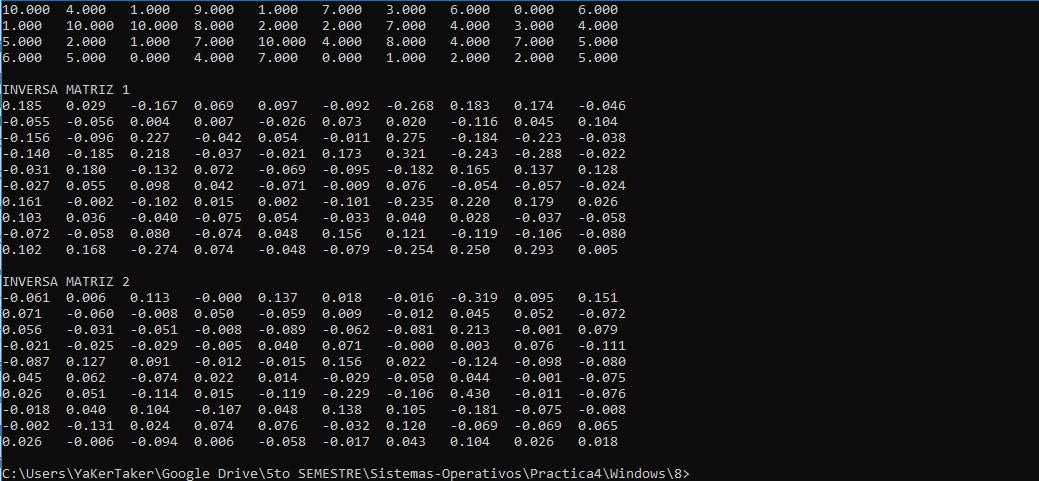
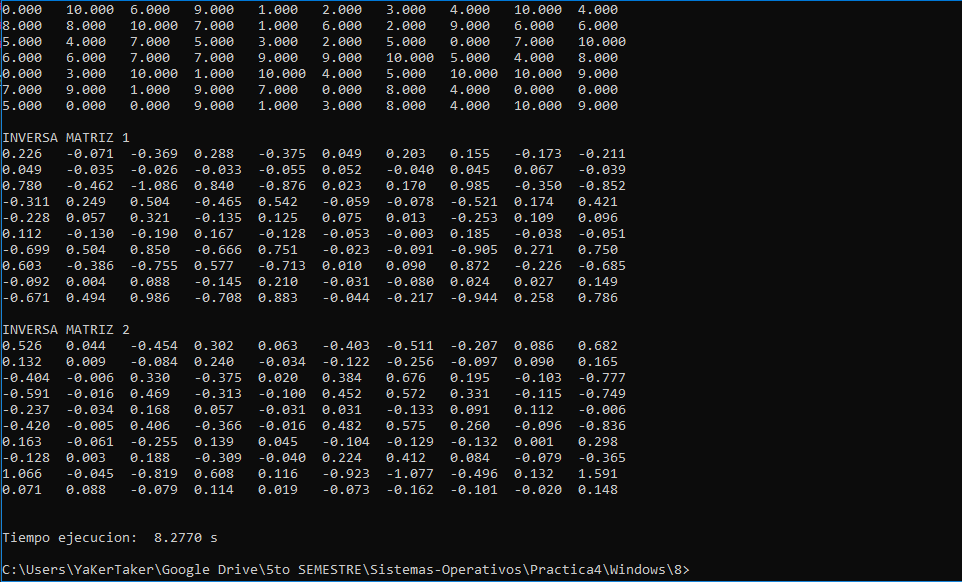
capturas punto 8 sencial windows

Changed region(s): [[0.0, 0.0, 0.6549, 0.9356], [0.0, 0.9667, 1.0, 1.0]]

diff --git a/Practica4/Windows/8/8.c b/Practica4/Windows/8/8.c
@@ -1,7 +1,13 @@
-#include<windows.h>
-#include<stdio.h>
+#include <windows.h>
+#include <stdio.h>
+#include <time.h>
 
 int main(int argc, char *argv[]){
+	clock_t tiempo_inicio, tiempo_final;
+	double segundos;
+
+	tiempo_inicio = clock();
+
 	HANDLE hProcess;
 	HANDLE hThread;
 	STARTUPINFO si;
@@ -81,4 +87,9 @@ int main(int argc, char *argv[]){
 	WaitForSingleObject(pi.hProcess,INFINITE);
 	CloseHandle(pi.hThread);
 	CloseHandle(pi.hProcess);
+
+	tiempo_final = clock();
+    segundos = (double)(tiempo_final - tiempo_inicio) / CLOCKS_PER_SEC;
+    //Cálculo del tiempo de ejecución del programa
+	printf("\n\nTiempo ejecucion:  %.4f s\n",  segundos);
 }
